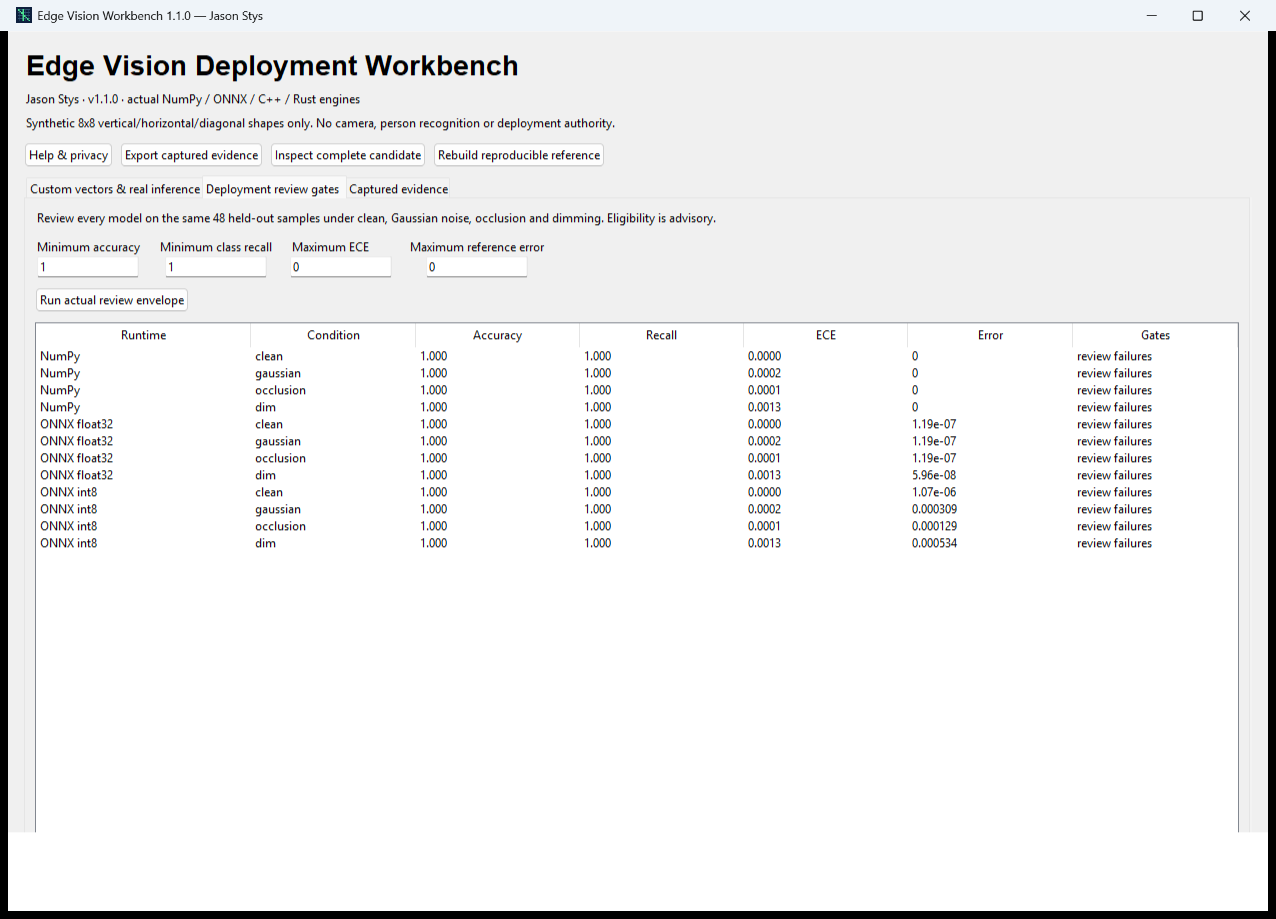
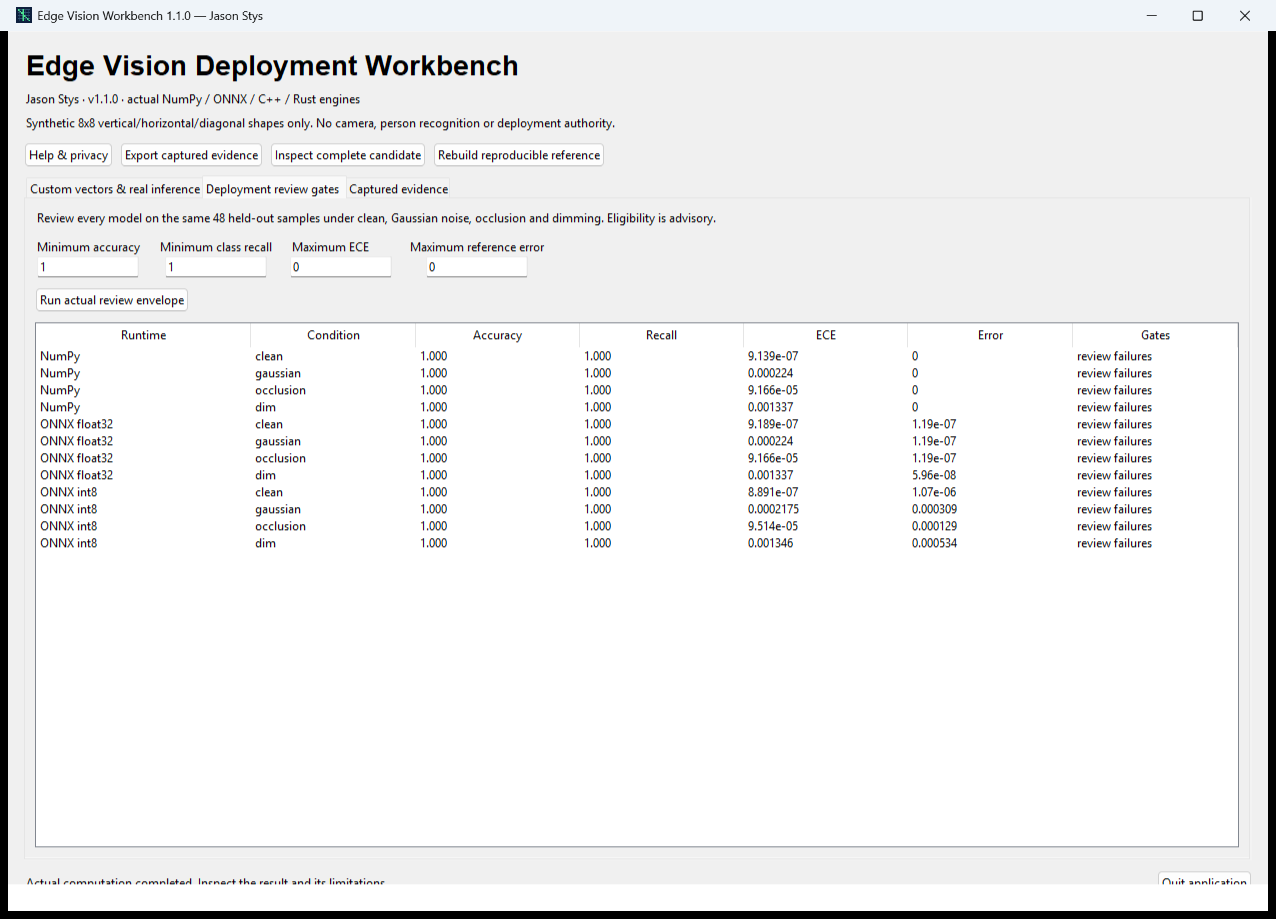
fix(privacy): disable vendor telemetry before native initialization

Changed region(s): [[0.5807, 0.3656, 0.6418, 0.5789], [0.0306, 0.9445, 0.3056, 0.975], [0.9169, 0.9445, 0.9781, 0.975]]

diff --git a/tests/test_runtime_privacy.py b/tests/test_runtime_privacy.py
@@ -1,0 +1,63 @@
+"""File: tests/test_runtime_privacy.py
+Purpose: Verify real fresh-process import order and the official event-disable API invocation.
+Symbols: the authored child observes actual imports; it never opens a user profile or dataset.
+This proves opt-out configuration, not an OS-wide network-traffic certification.
+"""
+
+import json
+import os
+import subprocess
+import sys
+from pathlib import Path
+
+import pytest
+
+
+@pytest.mark.parametrize("inherited", [None, "0"])
+def test_actual_vendor_initialization_is_preceded_by_opt_out_and_api_disable(inherited):
+    """Clear inherited opt-out and observe actual locked vendor imports in a fresh interpreter."""
+    source = Path(__file__).resolve().parents[1] / "src"
+    program = r"""
+import builtins,json,os,sys
+sys.path.insert(0,sys.argv[1])
+original_import=builtins.__import__
+events=[]
+calls=[]
+wrapped=False
+def observed_import(name,*args,**kwargs):
+    global wrapped
+    if name.startswith('onnxruntime'):
+        events.append(os.environ.get('ORT_DISABLE_TELEMETRY') == '1')
+    value=original_import(name,*args,**kwargs)
+    if name == 'onnxruntime' and not wrapped:
+        wrapped=True
+        original_disable=value.disable_telemetry_events
+        def disabled():
+            calls.append(True)
+            return original_disable()
+        value.disable_telemetry_events=disabled
+    return value
+builtins.__import__=observed_import
+import edgevision.pipeline
+print(json.dumps({'imports':len(events),'early':bool(events) and all(events),
+                  'apiCalls':len(calls)}))
+"""
+    environment = {
+        key: value
+        for key, value in os.environ.items()
+        if key.upper() not in {"ORT_DISABLE_TELEMETRY", "PYTHONPATH"}
+    }
+    if inherited is not None:
+        environment["ORT_DISABLE_TELEMETRY"] = inherited
+    # Only the fixed interpreter and literal authored test program execute; no supplied code is run.
+    result = subprocess.run(  # noqa: S603 - fixed interpreter and authored program
+        [sys.executable, "-I", "-c", program, str(source)],
+        env=environment,
+        check=True,
+        capture_output=True,
+        timeout=30,
+    )
+    assert len(result.stdout) <= 4096
+    observation = json.loads(result.stdout)
+    assert observation["imports"] > 0 and observation["early"] is True
+    assert observation["apiCalls"] >= 1

diff --git a/desktop/acceptance.py b/desktop/acceptance.py
@@ -7,6 +7,7 @@ No normal user profile, desktop input injection, network or alternate demo execu
 from __future__ import annotations
 
 import hashlib
+import os
 import time
 from pathlib import Path
 from threading import Event
@@ -79,6 +80,8 @@ def exercise(window: Application, root: Path, identity: dict, *, reopen: bool) -
             "Native prediction rows differ from captured results",
         )
         receipt["loadedAppLocalLibraries"] = loaded_libraries()
+        require(os.environ.get("ORT_DISABLE_TELEMETRY") == "1", "Vendor opt-out is not configured")
+        receipt["vendorTelemetryOptOutConfigured"] = True
 
     def first_journey():  # noqa: PLR0915 - explicit sequential real controls and independent oracles
         """Prepare/edit/import/infer/review/rebuild/export through normal application controls."""
@@ -113,6 +116,18 @@ def exercise(window: Application, root: Path, identity: dict, *, reopen: bool) -
             len(window.review_rows.get_children()) == EXPECTED_REVIEW_ROWS,
             "Model-by-condition review is incomplete",
         )
+        metrics = [
+            result["metrics"]["ece_10_bin"]
+            for candidate in window.last_evidence["result"]["candidates"].values()
+            for result in candidate["conditions"].values()
+        ]
+        for row, actual in zip(window.review_rows.get_children(), metrics, strict=True):
+            shown = float(window.review_rows.item(row)["values"][4])
+            require(
+                (shown > 0 if actual > 0 else shown == 0)
+                and abs(shown - actual) <= max(1e-14, abs(actual) * 0.001),
+                "Native calibration display hid or misstated the actual metric",
+            )
         require(
             all(
                 not item["eligible"]

diff --git a/desktop/application.py b/desktop/application.py
@@ -406,7 +406,7 @@ class Application:
                         condition,
                         f"{metrics['accuracy']:.3f}",
                         f"{worst:.3f}",
-                        f"{metrics['ece_10_bin']:.4f}",
+                        f"{metrics['ece_10_bin']:.4g}",
                         f"{result['reference_max_abs']:.3g}",
                         "pass" if all(result["gates"].values()) else "review failures",
                     ),
@@ -453,7 +453,9 @@ class Application:
             (
                 "Prepare/import exact 8x8 vector CSV or draw one synthetic pattern. Run "
                 "NumPy/ONNX or all five actual engines, then review every model under four "
-                "conditions. Gates are advisory; nothing deploys automatically. Rebuild "
+                "conditions. Gates are advisory; nothing deploys automatically. "
+                "ECE is 10-bin expected calibration error; lower is better. Reference error "
+                "compares probabilities with the portable model. Rebuild "
                 "runs the original training/export/release checks in a new generation. "
                 "Prior generations/reports remain, up to 100 each. Save edited CSV explicitly. "
                 "Scroll the input horizontally and predictions vertically. Close normally before "

diff --git a/src/edgevision/__init__.py b/src/edgevision/__init__.py
@@ -5,6 +5,11 @@ Variables: ``__version__`` identifies the repository artifact version; exact dec
 indexed in ``docs/CODE_INDEX.md``.
 """
 
+import os
+
+# Process-only vendor opt-out must precede every optional ONNX Runtime initialization.
+os.environ["ORT_DISABLE_TELEMETRY"] = "1"
+
 from edgevision.data import VisionDataset, generate_dataset
 from edgevision.model import PortableModel, train_model
 

diff --git a/scripts/build-native.py b/scripts/build-native.py
@@ -259,6 +259,8 @@ def main(argv: list[str] | None = None) -> int:
         "--clean",
         "--console" if arguments.console_diagnostics else "--windowed",
         "--onedir",
+        "--runtime-hook",
+        str(ROOT / "desktop/frozen_privacy.py"),
         "--name",
         "EdgeVisionWorkbench",
         "--paths",

diff --git a/desktop/frozen_privacy.py b/desktop/frozen_privacy.py
@@ -1,0 +1,8 @@
+"""File: desktop/frozen_privacy.py
+Purpose: Set the process-only vendor telemetry opt-out before frozen application imports.
+State: no global OS/environment modification, profile access or scientific imports.
+"""
+
+import os
+
+os.environ["ORT_DISABLE_TELEMETRY"] = "1"

diff --git a/src/edgevision/runtime.py b/src/edgevision/runtime.py
@@ -21,6 +21,9 @@ from edgevision.constants import (
     MAX_ONNX_BYTES,
 )
 
+# Also disable the official event API; the package already set the pre-initialization opt-out.
+ort.disable_telemetry_events()
+
 FloatArray = NDArray[np.float32]
 
 

diff --git a/docs/CODE_INDEX.md b/docs/CODE_INDEX.md
@@ -6,17 +6,17 @@ Generated by `npm run code-index`. Line numbers refer to committed source and ar
 
 | Kind | Name | Line |
 |---|---|---:|
-| function | `require` | 28 |
-| function | `exercise` | 34 |
-| function | `record` | 56 |
-| function | `check_inference` | 60 |
-| function | `first_journey` | 83 |
-| function | `reopen_journey` | 174 |
-| function | `fail` | 209 |
-| function | `pending_close` | 215 |
-| function | `write_after_release` | 219 |
-| function | `confirm` | 228 |
-| function | `advance` | 262 |
+| function | `require` | 29 |
+| function | `exercise` | 35 |
+| function | `record` | 57 |
+| function | `check_inference` | 61 |
+| function | `first_journey` | 86 |
+| function | `reopen_journey` | 189 |
+| function | `fail` | 224 |
+| function | `pending_close` | 230 |
+| function | `write_after_release` | 234 |
+| function | `confirm` | 243 |
+| function | `advance` | 277 |
 
 ## `desktop/application.py`
 
@@ -45,10 +45,10 @@ Generated by `npm run code-index`. Line numbers refer to committed source and ar
 | function | `show_evidence` | 416 |
 | function | `export_result` | 431 |
 | function | `help` | 449 |
-| function | `run` | 468 |
-| function | `work` | 477 |
-| function | `_poll` | 486 |
-| function | `close` | 519 |
+| function | `run` | 470 |
+| function | `work` | 479 |
+| function | `_poll` | 488 |
+| function | `close` | 521 |
 
 ## `desktop/capture.py`
 
@@ -333,10 +333,10 @@ Generated by `npm run code-index`. Line numbers refer to committed source and ar
 
 | Kind | Name | Line |
 |---|---|---:|
-| type | `OnnxPredictor` | 27 |
-| function | `__init__` | 30 |
-| function | `predict` | 44 |
-| function | `maximum_absolute_error` | 63 |
+| type | `OnnxPredictor` | 30 |
+| function | `__init__` | 33 |
+| function | `predict` | 47 |
+| function | `maximum_absolute_error` | 66 |
 
 ## `tests/test_data.py`
 
@@ -438,6 +438,14 @@ Generated by `npm run code-index`. Line numbers refer to committed source and ar
 | function | `test_weak_class_cannot_hide_in_average` | 24 |
 | function | `test_actual_candidates_share_split_and_all_conditions` | 51 |
 | function | `test_tampered_artifacts_fail_before_review` | 79 |
+
+## `tests/test_runtime_privacy.py`
+
+| Kind | Name | Line |
+|---|---|---:|
+| function | `test_actual_vendor_initialization_is_preceded_by_opt_out_and_api_disable` | 17 |
+| function | `observed_import` | 27 |
+| function | `disabled` | 35 |
 
 ## `tests/test_validation_guards.py`
 

diff --git a/docs/reports/native-application-2026-11-11.md b/docs/reports/native-application-2026-11-11.md
@@ -7,8 +7,8 @@ the original C++/Rust inference algorithms are unchanged.
 
 ## Results
 
-- Full original and new Python suite: **76 passed, zero skips**, CPython 3.14.10, 8.03 s in the observed
-  run. Coverage was **97.59% combined statements/branches for `edgevision`**, above the unchanged 94%
+- Full original and new Python suite: **78 passed, zero skips**, CPython 3.14.10, 5.88 s in the observed
+  run. Coverage was **97.60% combined statements/branches for `edgevision`**, above the unchanged 94%
   floor. This denominator excludes new desktop widgets and native C++/Rust coverage. Actual widget
   tests and compiled-application journeys are reported separately rather than called 100% coverage.
 - Ruff format/lint of new native source/tests and strict original mypy passed. Strict mypy remains
@@ -72,3 +72,11 @@ acceptance, all hosted original/security/native checks, review and delivery rema
 A later pre-acceptance build correctly refused source-index regeneration during freezing. That
 source-guard failure is preserved separately, not counted as a compiled-application pass. Final
 post-commit native evidence and hosted results are recorded in the review handoff.
+
+The offline startup explicitly disables vendor telemetry before initialization using the
+[official opt-out](https://github.com/microsoft/onnxruntime/blob/main/docs/Privacy.md), then invokes
+the event-disable API. An early frozen hook enforces the same process-only policy. Two fresh actual
+interpreter cases remove or negate the inherited setting and verify the opt-out precedes every
+observed vendor import and the official API is called. Frozen normal-app journeys also verify the
+configured opt-out. This is configuration proof, not an OS-wide traffic capture or a claim about an
+external caller that initialized the SDK first. Scientific algorithms and original gates are unchanged.

diff --git a/docs/FILE_CATALOG.md b/docs/FILE_CATALOG.md
@@ -112,6 +112,7 @@ reviewers can distinguish source, configuration, evidence, and deployment artifa
 - `desktop/acceptance.py`: marked synthetic real-control journeys, independent oracles and pending-write handshake.
 - `desktop/capture.py`: bounded capture of the exact owned window; no desktop/input automation.
 - `desktop/runtime_libraries.py`: actual loaded vendor DLL origin/hash checks in frozen Windows acceptance.
+- `desktop/frozen_privacy.py`: process-only vendor opt-out before frozen application imports.
 - `scripts/build-kernels.ps1`: reproducible original C++/Rust tests and static-CRT Windows kernel builds.
 - `scripts/check-crt.ps1`: read-only Microsoft signature/company checks for fixed licensed app-local libraries.
 - `scripts/build-native.py`: allowlisted resources, real notices, fixed vendor import handling and source-bound freezing.
@@ -123,6 +124,7 @@ reviewers can distinguish source, configuration, evidence, and deployment artifa
 - `tests/test_desktop_project.py`: actual scientific engines and independent malformed-input/generation checks.
 - `tests/test_desktop_widgets.py`: actual Windows widgets, display failure handling and retained pending-work close.
 - `tests/test_native_archive.py`: actual ZIP, relocation, expansion, metadata and marker refusal cases.
+- `tests/test_runtime_privacy.py`: fresh-process real import-order/API checks with absent or disabled inherited opt-out.
 - `docs/native-application.md`: practical workflow, build/recovery instructions and ownership/model limits.
 - `docs/reports/native-application-2026-11-11.md`: actual validation results and preserved genuine packaging failures.
 - `docs/reports/native-application-2026-11-11.json`: bounded machine-readable observed counts and scope.

diff --git a/docs/native-application.md b/docs/native-application.md
@@ -51,6 +51,12 @@ are result snapshots, not a full backup. No automatic retention deletion is adde
 exports stay where the user chooses them. No telemetry, camera, external model import or automatic
 deployment is added.
 
+The process sets the vendor's `ORT_DISABLE_TELEMETRY=1` before ONNX Runtime initializes and invokes
+its event-disable API. A frozen early hook applies the same policy before application imports.
+This follows the [vendor privacy documentation](https://github.com/microsoft/onnxruntime/blob/main/docs/Privacy.md).
+The test proves configured import order, not an OS-wide network audit. An external embedding caller
+that already initialized the SDK remains responsible for that earlier initialization.
+
 ## Build and verify
 
 Build-time tools are separate from end-user requirements. Use an isolated CPython 3.14.10 environment,
